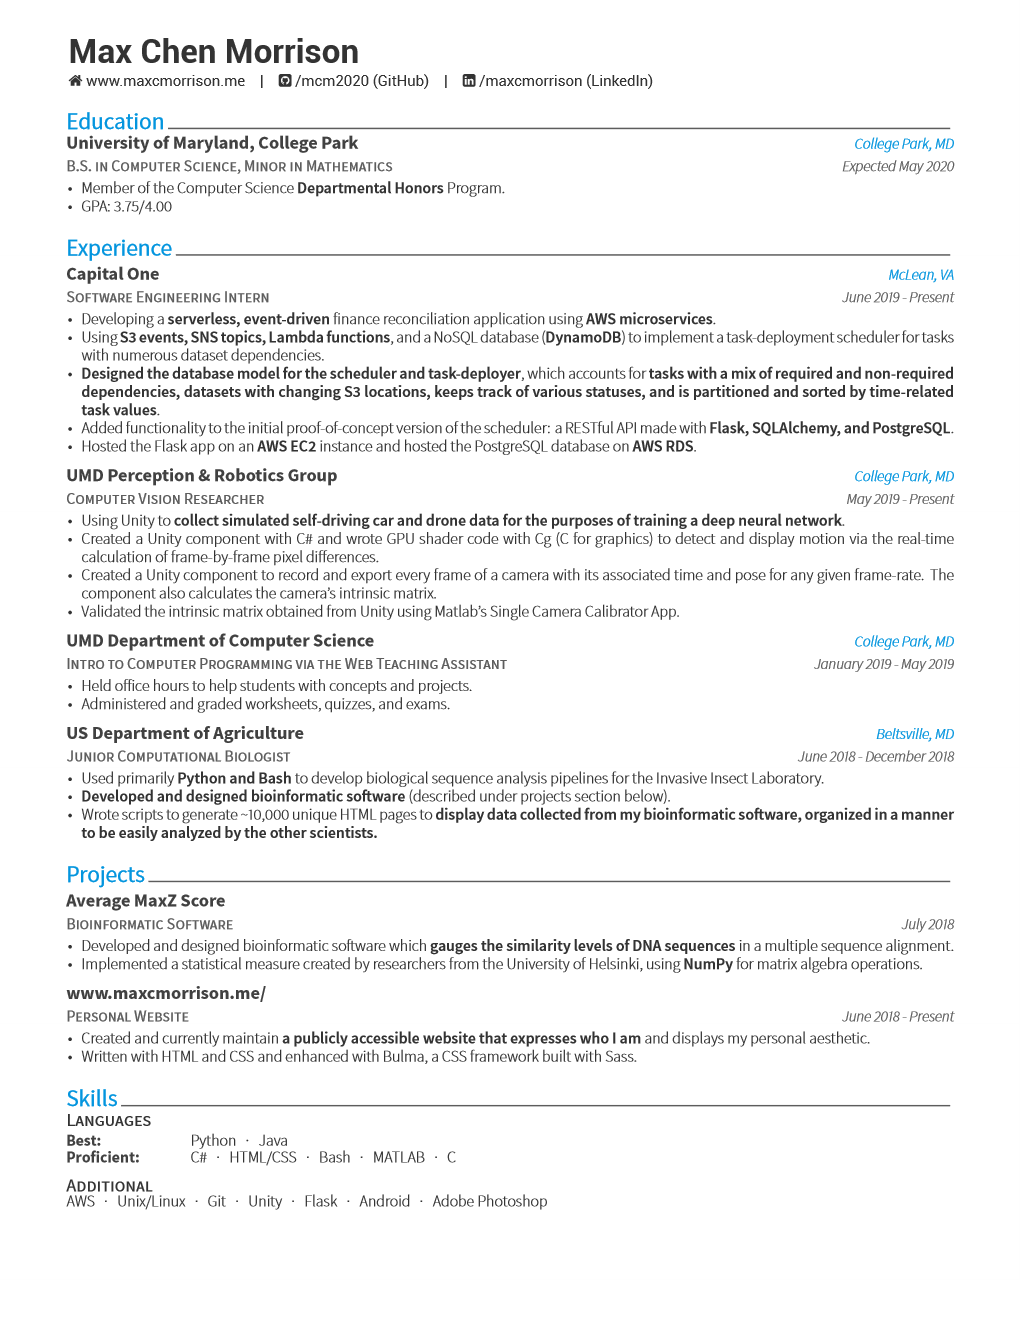
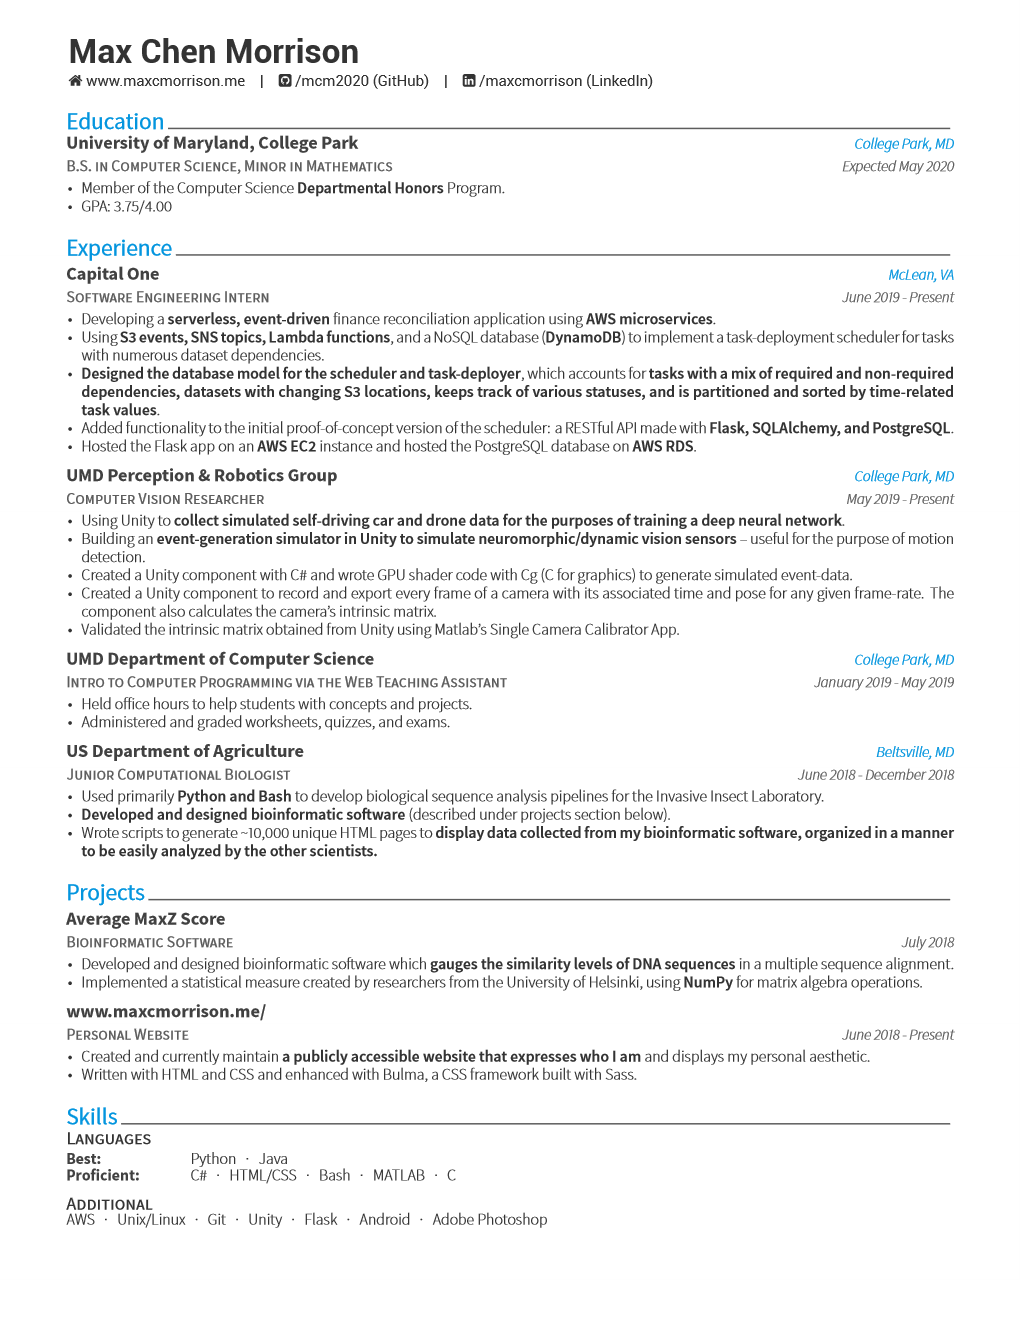
updated resume

Changed region(s): [[0.0608, 0.4038, 0.9422, 0.9318], [0.4255, 0.9008, 0.5471, 0.9318], [0.9118, 0.7765, 0.9422, 0.8076]]

diff --git a/index.html b/index.html
@@ -52,7 +52,7 @@
     <p class="caption"><i>Port Isobel Island, </i>11/7/15</p>
 
 	<img class="top" src="images/pixel-differences.gif" width="100%" alt="pixel differences">
-	<p class="caption">Detecting motion in real-time via frame-by-frame pixel differences</p>
+	<p class="caption">Writing GPU shader code to render a rough version of simulated event-data (actual event-data calculation is not real-time).</p>
     <br>
 
     <hr>
